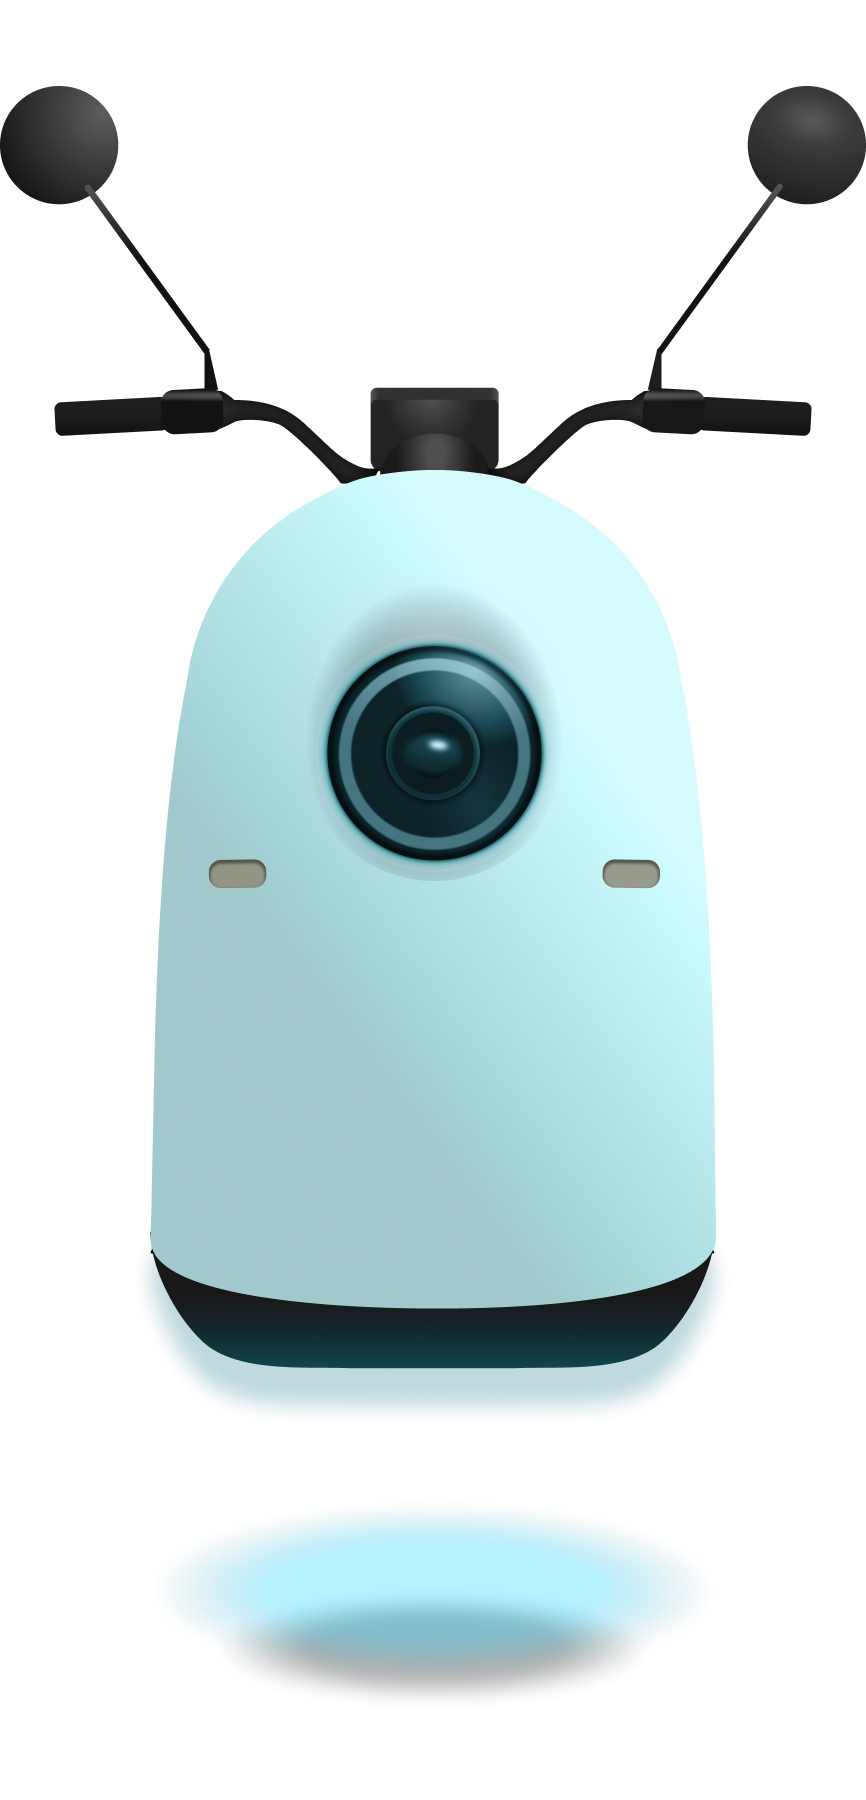
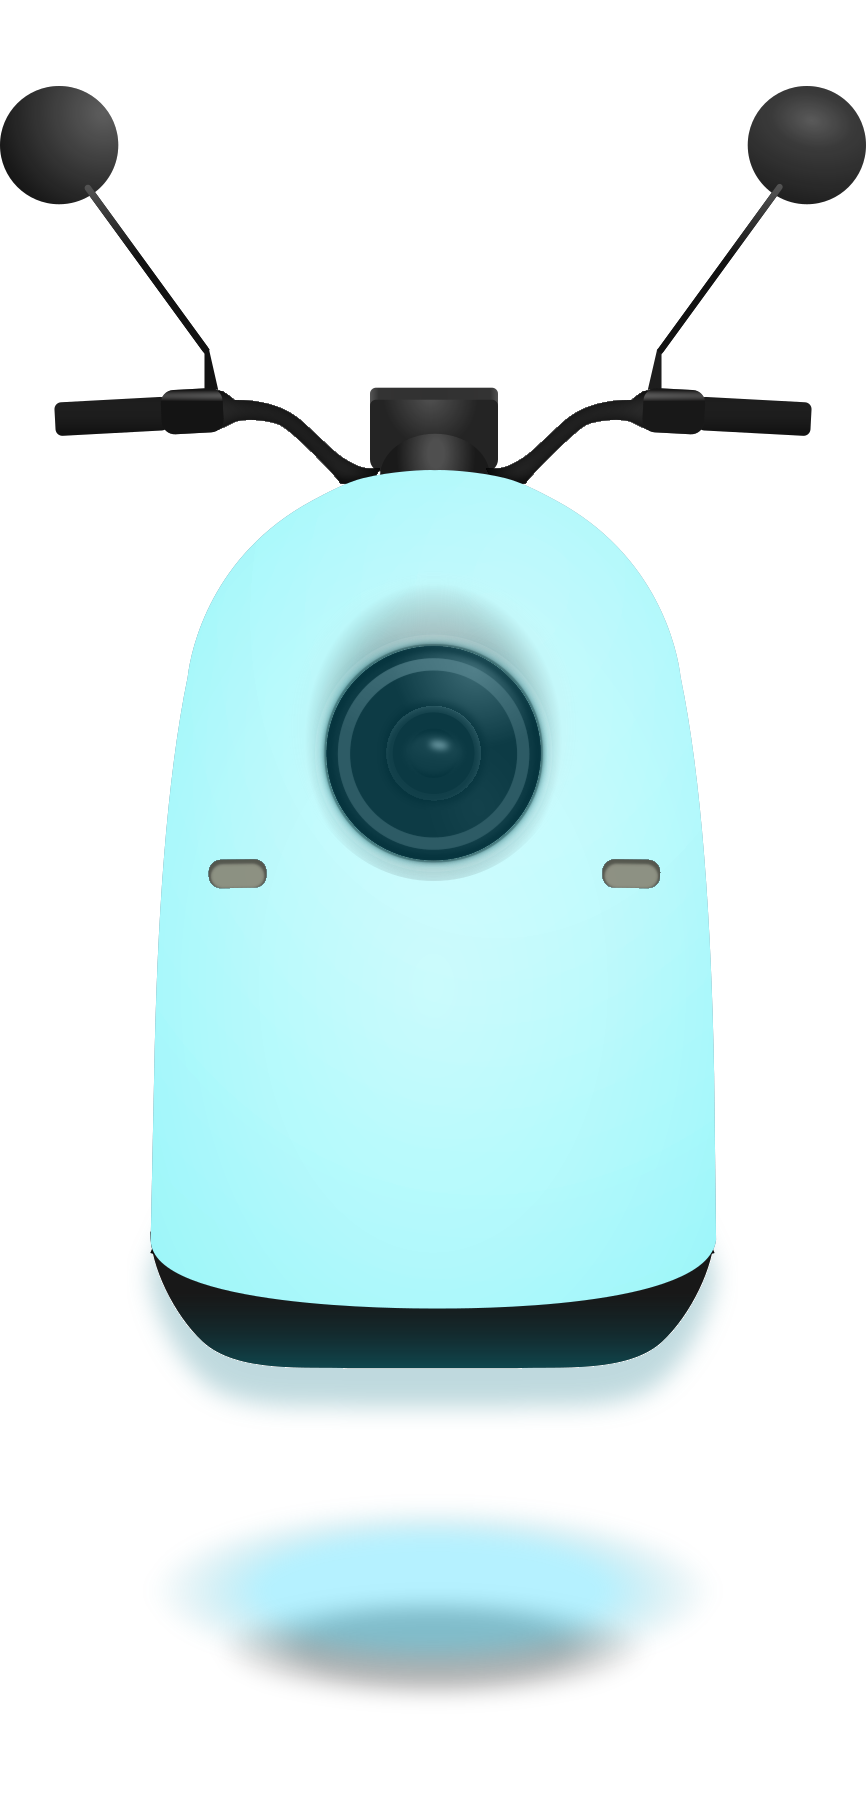
fix(app): refresh front artwork and fender shadow

Changed region(s): [[0.1559, 0.3422, 0.8106, 0.7467], [0.4053, 0.2489, 0.8418, 0.5911]]

diff --git a/lib/ui/widgets/rendered_scooter_artwork.dart b/lib/ui/widgets/rendered_scooter_artwork.dart
@@ -390,6 +390,7 @@ class _ArtworkViewData {
         shadow,
         under,
         for (final paintLayer in paintLayers) ...[
+          if (paintLayer.before != null) paintLayer.before!,
           paintLayer.paint,
           ...paintLayer.effects,
         ],
@@ -402,6 +403,7 @@ class _ArtworkViewData {
     }
     yield under;
     for (final paintLayer in paintLayers) {
+      if (paintLayer.before != null) yield paintLayer.before!;
       yield paintLayer.paint;
       for (final effect in paintLayer.effects) {
         if (!matte && effect.asset == glossBefore) {
@@ -416,15 +418,17 @@ class _ArtworkViewData {
 }
 
 class _ArtworkPaintLayer {
-  const _ArtworkPaintLayer({required this.paint, required this.effects});
+  const _ArtworkPaintLayer({required this.paint, required this.effects, this.before});
 
   factory _ArtworkPaintLayer.fromJson(Map<String, dynamic> json) => _ArtworkPaintLayer(
+        before: json['before'] == null ? null : _ArtworkLayer.fromJson(json['before'] as Map<String, dynamic>),
         paint: _ArtworkLayer.fromJson(json['paint'] as Map<String, dynamic>, paintMask: true),
         effects: [
           for (final value in json['effects'] as List<dynamic>) _ArtworkLayer.fromJson(value as Map<String, dynamic>),
         ],
       );
 
+  final _ArtworkLayer? before;
   final _ArtworkLayer paint;
   final List<_ArtworkLayer> effects;
 }

diff --git a/test/ui/front_scooter_artwork_test.dart b/test/ui/front_scooter_artwork_test.dart
@@ -1,0 +1,26 @@
+import 'dart:convert';
+
+import 'package:flutter/services.dart';
+import 'package:flutter_test/flutter_test.dart';
+
+void main() {
+  TestWidgetsFlutterBinding.ensureInitialized();
+
+  test('front paint uses soft-light shading and one fender shadow', () async {
+    final manifest = jsonDecode(
+      await rootBundle.loadString('images/scooter/custom_artwork_layers.json'),
+    ) as Map<String, dynamic>;
+    final front = (manifest['views'] as Map<String, dynamic>)['front'] as Map<String, dynamic>;
+    final layers = front['paintLayers'] as List<dynamic>;
+    final body = layers[0] as Map<String, dynamic>;
+    final fender = layers[1] as Map<String, dynamic>;
+    final effects = body['effects'] as List<dynamic>;
+
+    expect(front['height'], 1800);
+    expect(effects.take(3).map((effect) => effect['blendMode']), everyElement('softLight'));
+    expect((fender['before'] as Map<String, dynamic>)['asset'],
+        'images/scooter/custom_front_fender_shadow.png');
+    expect(layers.where((layer) => layer['before'] != null), hasLength(1));
+    expect(await rootBundle.load('images/scooter/custom_front_fender_shadow.png'), isNotNull);
+  });
+}

diff --git a/test/ui/limited_scooter_artwork_test.dart b/test/ui/limited_scooter_artwork_test.dart
@@ -28,7 +28,7 @@ void main() {
       sides.add(await _loadImage('images/scooter/side_$index.webp'));
     }
 
-    expect(fronts.map((image) => image.width), everyElement(866));
+    expect(fronts.map((image) => (image.width, image.height)), everyElement((866, 1800)));
     expect(sides.map((image) => image.width), everyElement(2072));
     expect((fronts[0].width, fronts[0].height), (fronts[1].width, fronts[1].height));
     expect((sides[0].width, sides[0].height), (sides[1].width, sides[1].height));

diff --git a/tool/build_scooter_artwork.py b/tool/build_scooter_artwork.py
@@ -210,6 +210,50 @@ def full_layer_alpha(output: Path, layer: dict[str, object], size: tuple[int, in
     return alpha
 
 
+def build_front_fender_shadow(
+    root: ET.Element,
+    leaves: list[ET.Element],
+    destination: Path,
+) -> dict[str, object]:
+    fender = next(
+        child for child in root.iter() if "filter3_d" in child.get("filter", "")
+    )
+    fender_leaves = set(fender.iter())
+    indices = {index for index, leaf in enumerate(leaves) if leaf in fender_leaves}
+    filtered = select_leaves(root, indices)
+    unfiltered = copy.deepcopy(filtered)
+    for element in unfiltered.iter():
+        if any(name in element.get("filter", "") for name in ("filter3_d", "filter4_d")):
+            element.attrib.pop("filter")
+
+    with tempfile.TemporaryDirectory() as temp_dir:
+        filtered_path = Path(temp_dir) / "filtered.png"
+        unfiltered_path = Path(temp_dir) / "unfiltered.png"
+        render(filtered, filtered_path)
+        render(unfiltered, unfiltered_path)
+        with Image.open(filtered_path) as image:
+            pixels = np.array(image.convert("RGBA"), dtype=np.uint8)
+        with Image.open(unfiltered_path) as image:
+            plain_alpha = np.array(image.convert("RGBA"), dtype=np.uint8)[..., 3]
+
+    # Each fender filter belongs to the combined group, not to individual effects.
+    pixels[..., 3] = np.maximum(
+        pixels[..., 3].astype(np.int16) - plain_alpha.astype(np.int16), 0
+    ).astype(np.uint8)
+    pixels[..., :3] = 0
+    shadow = Image.fromarray(pixels, "RGBA")
+    bounds = shadow.getchannel("A").getbbox() or (0, 0, 1, 1)
+    shadow.crop(bounds).save(destination, "PNG", optimize=True)
+    left, top, right, bottom = bounds
+    return {
+        "asset": f"images/scooter/{destination.name}",
+        "x": left,
+        "y": top,
+        "width": right - left,
+        "height": bottom - top,
+    }
+
+
 def save_alpha_layer(
     destination: Path,
     alpha: np.ndarray,
@@ -413,6 +457,10 @@ def build_layers(source_file: Path, output: Path, view: str) -> dict[str, object
         select_leaves(root, under_indices), output / f"custom_{view}_under.png"
     )
 
+    fender_shadow = (
+        build_front_fender_shadow(root, leaves, output / "custom_front_fender_shadow.png")
+        if view == "front" else None
+    )
     paint_layers: list[dict[str, object]] = []
     for layer, paint_index in enumerate(paint_indices):
         next_paint = paint_indices[layer + 1] if layer + 1 < len(paint_indices) else len(leaves)
@@ -429,6 +477,10 @@ def build_layers(source_file: Path, output: Path, view: str) -> dict[str, object
             if view == "front" and any("paint30_radial" in fill for fill in fills):
                 continue
             effect_root = select_leaves(root, indices)
+            if view == "front":
+                for element in effect_root.iter():
+                    if any(name in element.get("filter", "") for name in ("filter3_d", "filter4_d")):
+                        element.attrib.pop("filter")
             remove_blend_modes(effect_root)
             destination = output / f"custom_{view}_effect_{layer}_{effect_number}.png"
             effect_data = render_cropped(effect_root, destination)
@@ -443,14 +495,23 @@ def build_layers(source_file: Path, output: Path, view: str) -> dict[str, object
                 effect_data["matteOnly"] = True
             effects.append(effect_data)
             effect_number += 1
-        paint_layers.append({"paint": paint, "effects": effects})
+        paint_layers.append({
+            "paint": paint,
+            "effects": effects,
+            **({"before": fender_shadow} if layer == 1 and fender_shadow else {}),
+        })
     manifest["paintLayers"] = paint_layers
     return manifest
 
 
 def build_prerendered(source: Path, output: Path) -> None:
+    hover = wrap_source(source / "mode=hover.svg", "front")
+    replace_placeholder(hover, "#C8F8FA")
+    render(hover, output / "base_9.webp", webp=True)
     for index in (7, 8, 9):
         for view, output_prefix in (("front", "base"), ("side", "side")):
+            if view == "front" and index == 9:
+                continue
             source_file = source / f"{view}_{index}.png"
             with Image.open(source_file) as image:
                 expected_width = 866 if view == "front" else 2072
@@ -458,18 +519,23 @@ def build_prerendered(source: Path, output: Path) -> None:
                     raise ValueError(
                         f"{source_file.name} is {image.width}px wide, expected {expected_width}px"
                     )
-            subprocess.run(
-                [
-                    "cwebp",
-                    "-lossless",
-                    "-exact",
-                    "-quiet",
-                    source_file,
-                    "-o",
-                    output / f"{output_prefix}_{index}.webp",
-                ],
-                check=True,
-            )
+                if view == "front":
+                    if image.height + FRONT_TOP > SIZES["front"][1]:
+                        raise ValueError(f"{source_file.name} exceeds the front canvas")
+                    padded = Image.new("RGBA", SIZES["front"])
+                    padded.alpha_composite(image.convert("RGBA"), (0, FRONT_TOP))
+                    with tempfile.TemporaryDirectory() as temp_dir:
+                        padded_path = Path(temp_dir) / "front.png"
+                        padded.save(padded_path)
+                        subprocess.run([
+                            "cwebp", "-lossless", "-exact", "-quiet", padded_path,
+                            "-o", output / f"{output_prefix}_{index}.webp",
+                        ], check=True)
+                    continue
+            subprocess.run([
+                "cwebp", "-lossless", "-exact", "-quiet", source_file,
+                "-o", output / f"{output_prefix}_{index}.webp",
+            ], check=True)
 
 
 def main() -> None:
